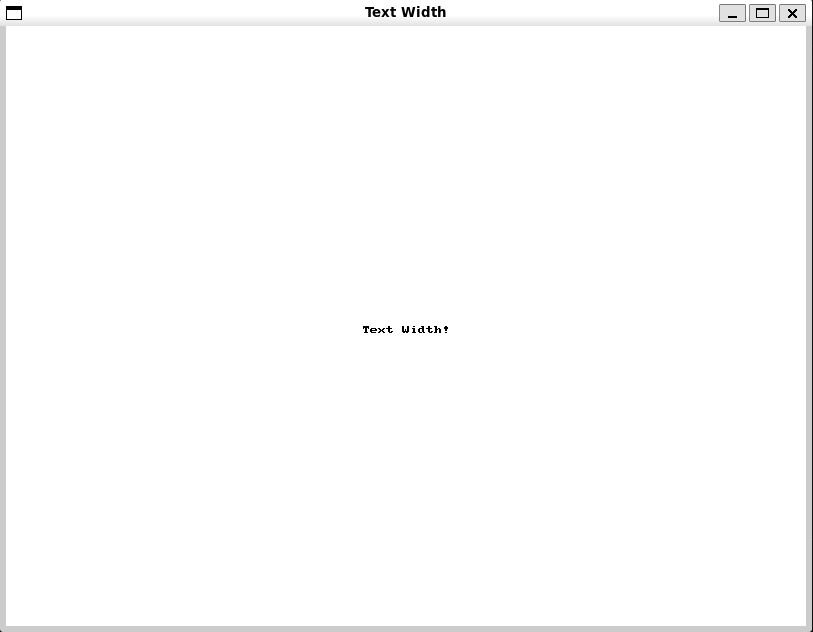
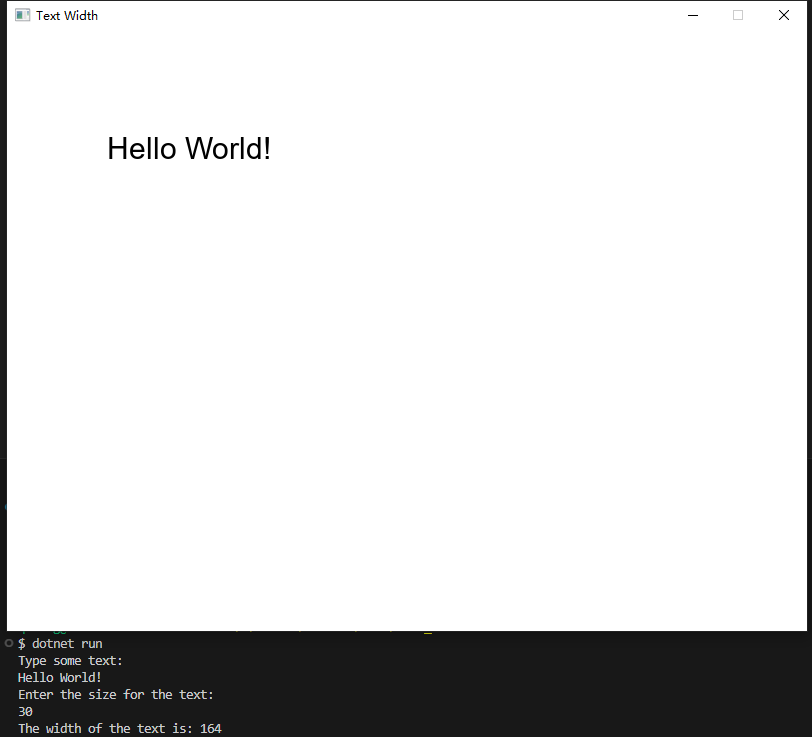
new idea

Changed region(s): [[0.0, 0.0, 1.0, 1.0], [0.1232, 0.1804, 0.3387, 0.2405], [0.431, 0.5111, 0.5542, 0.5411]]

diff --git a/public/usage-examples/graphics/text_width/text_width-1-simple-oop.cs b/public/usage-examples/graphics/text_width/text_width-1-simple-oop.cs
@@ -1,32 +1,37 @@
 using SplashKitSDK;
 
-namespace TextWidth
+namespace TextHeight
 {
     public class Program
     {
         public static void Main()
-        {           
+        {
+            // Let user enter the text
+            SplashKit.WriteLine("Type some text: ");
+            string text = SplashKit.ReadLine();
+
+            // Let user enter the size
+            SplashKit.WriteLine("Enter the size for the text: ");
+            int size = SplashKit.ConvertToInteger(SplashKit.ReadLine());
+
             SplashKit.OpenWindow("Text Width", 800, 600);
             SplashKit.ClearScreen();
 
-            string text = "Text Width!";
-
             // Load font
             SplashKit.LoadFont("my_font", "arial.ttf");
-            // Calculate the text width, 0 for normal font, and 16 is the font size
-            int textWidth = SplashKit.TextWidth(text, "my_font", 16);
 
-            // Calculate the x and y position to make the text in the center of the window
-            int xPosition = (800 - textWidth) / 2;
-            int yPosition = 600 / 2;
+            // Calculate the text width with size enter by user
+            int textWidth = SplashKit.TextWidth(text, "my_font", size);
 
-            // Display the text in the center of the window
-            SplashKit.DrawText(text, Color.Black, xPosition, yPosition);
+            // Display the width of text.
+            SplashKit.WriteLine("The width of the text is: " + textWidth);
+
+            // Display the text in the window
+            SplashKit.DrawText(text, Color.Black, "my_font", size, 100, 100);
 
             SplashKit.RefreshScreen();
             SplashKit.Delay(4000);
             SplashKit.CloseAllWindows();
-        }    
+        }
     }
 }
-

diff --git a/public/usage-examples/graphics/text_width/text_width-1-simple-top-level.cs b/public/usage-examples/graphics/text_width/text_width-1-simple-top-level.cs
@@ -1,26 +1,29 @@
 using SplashKitSDK;
 using static SplashKitSDK.SplashKit;
 
-OpenWindow("Text Width", 800, 600);
+// Let user enter the text
+WriteLine("Type some text: ");
+string text = ReadLine();
 
+// Let user enter the size
+WriteLine("Enter the size for the text: ");
+int size = ConvertToInteger(ReadLine());
+
+OpenWindow("Text Width", 800, 600);
 ClearScreen();
 
-string text = "Text Width!";
-
-// Load font
+// Load a font
 LoadFont("my_font", "arial.ttf");
 
-// Calculate the text width, 0 for arial.ttf, and 16 is the font size
-int textWidth = TextWidth(text, "my_font", 16);
+//Calculate the text width with size enter by user
+int textWidth = TextWidth(text, "my_font", size);
 
-// Calculate the x and y position to make the text in the centre of the window
-int xPosition = (800 - textWidth) / 2;
-int yPosition = 600 / 2;
+// Display the width of text.
+WriteLine("The width of the text is: " + textWidth);
 
-// Display the text in the centre of the window
-DrawText(text, Color.Black, "my_font", 16, xPosition, yPosition);
+// Display the text in the window
+DrawText(text, Color.Black, "my_font", size, 100, 100);
 
 RefreshScreen();
 Delay(4000);
 CloseAllWindows();
-

diff --git a/public/usage-examples/graphics/text_width/text_width-1-simple.py b/public/usage-examples/graphics/text_width/text_width-1-simple.py
@@ -1,23 +1,27 @@
 from splashkit import *
 
-open_window("Text Width", 800, 600)
-clear_screen(color_white())
+#Let user enter the text
+write_line("Type some text: ")
+text = read_line()
 
-text = "Text Width!"
+#Let user enter the size
+write_line("Enter the size for the text: ")
+size = convert_to_integer(read_line())
+
+open_window("Text width", 800, 600)
+clear_screen(color_white())
 
 # Load font
 load_font("my_font", "arial.ttf")
 
-# Calculate the text width, 0 for arial.ttf, and 16 is the font size
-text_width = text_width(text, "my_font", 16)
+# Calculate the text width with size enter by user
+text_width = text_width(text, "my_font", size)
 
-# Calculate the x and y position to make the text in the centre of the window
-x_position = (800 - text_width) // 2
-y_position = 600 // 2
+# Display the width of text
+write_line("The width of the text is: " + str(text_width))
 
-# Display the text in the centre of the window
-draw_text(text, color_black(), 0, 16, x_position, y_position)
-
+# Display the text in the window
+draw_text(text, color_black(), "my_font", size, 100, 100)
 
 refresh_screen()
 delay(4000)
